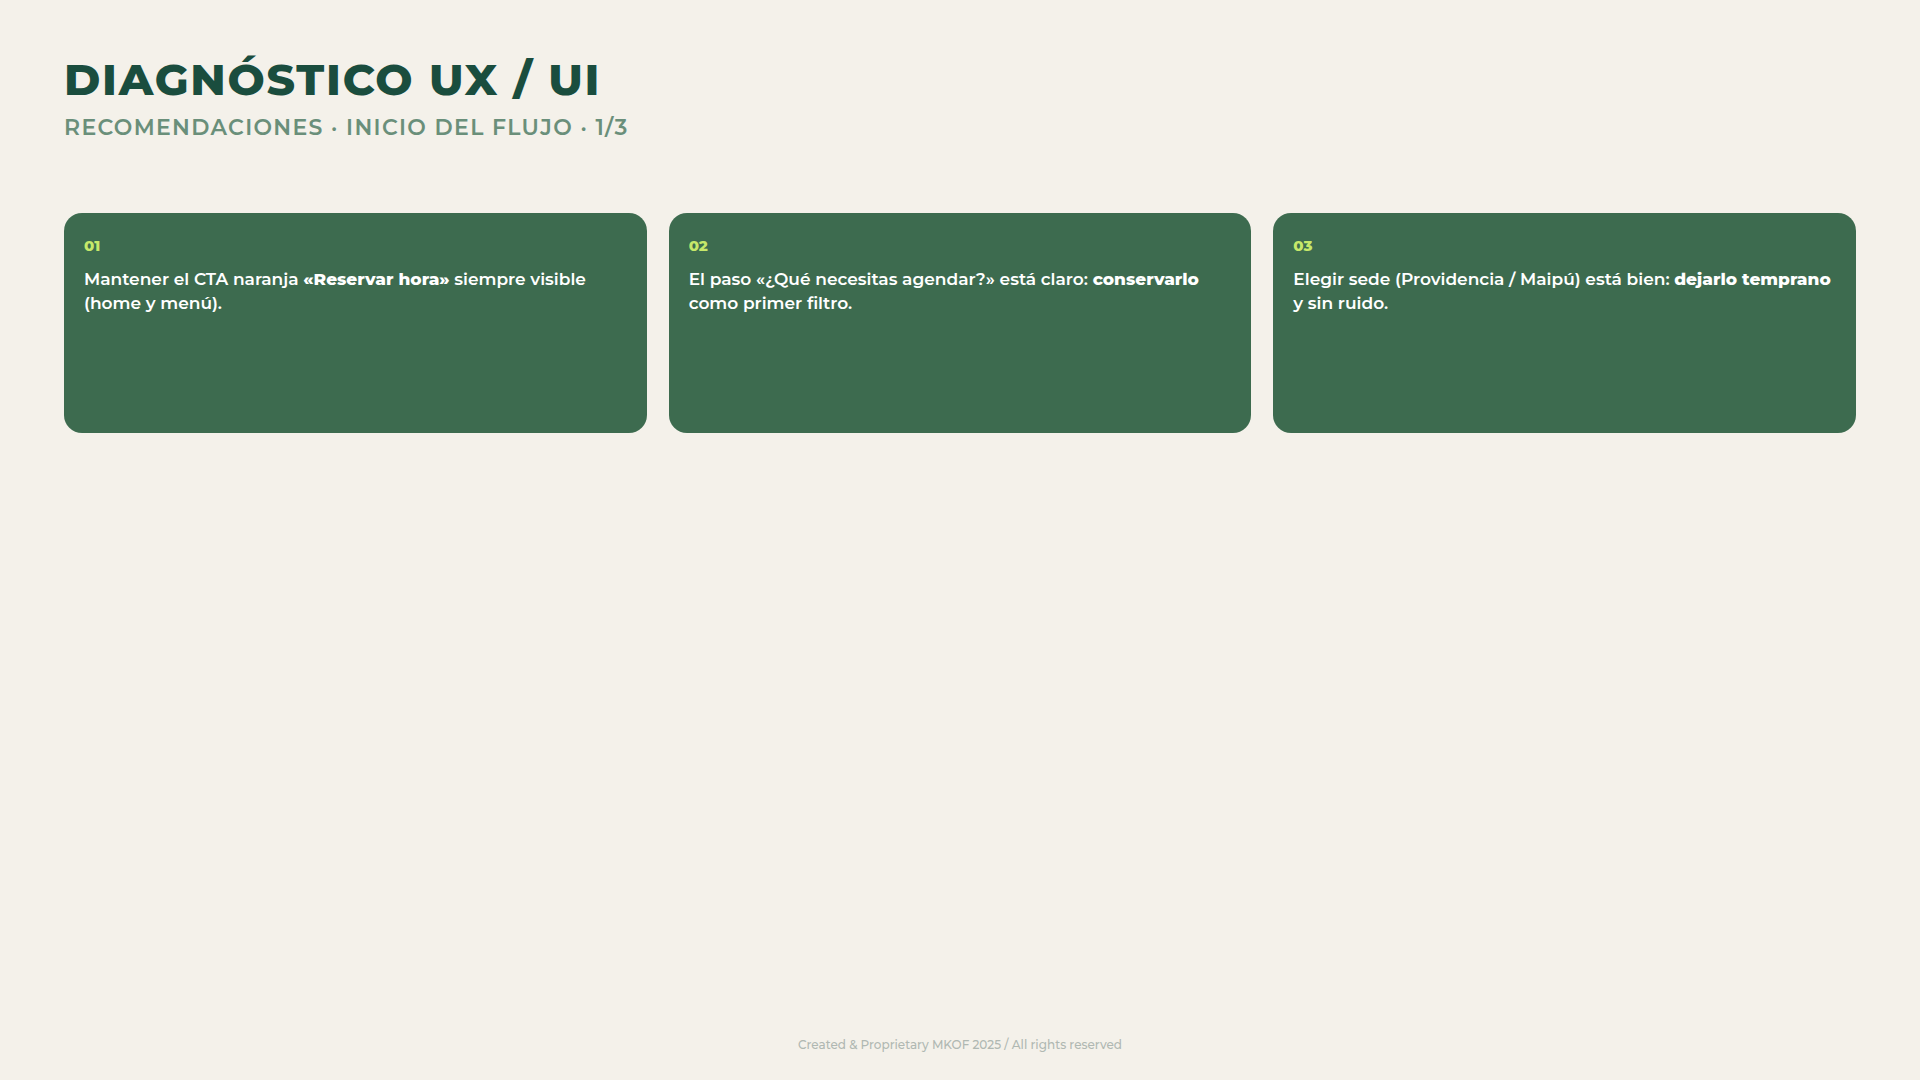
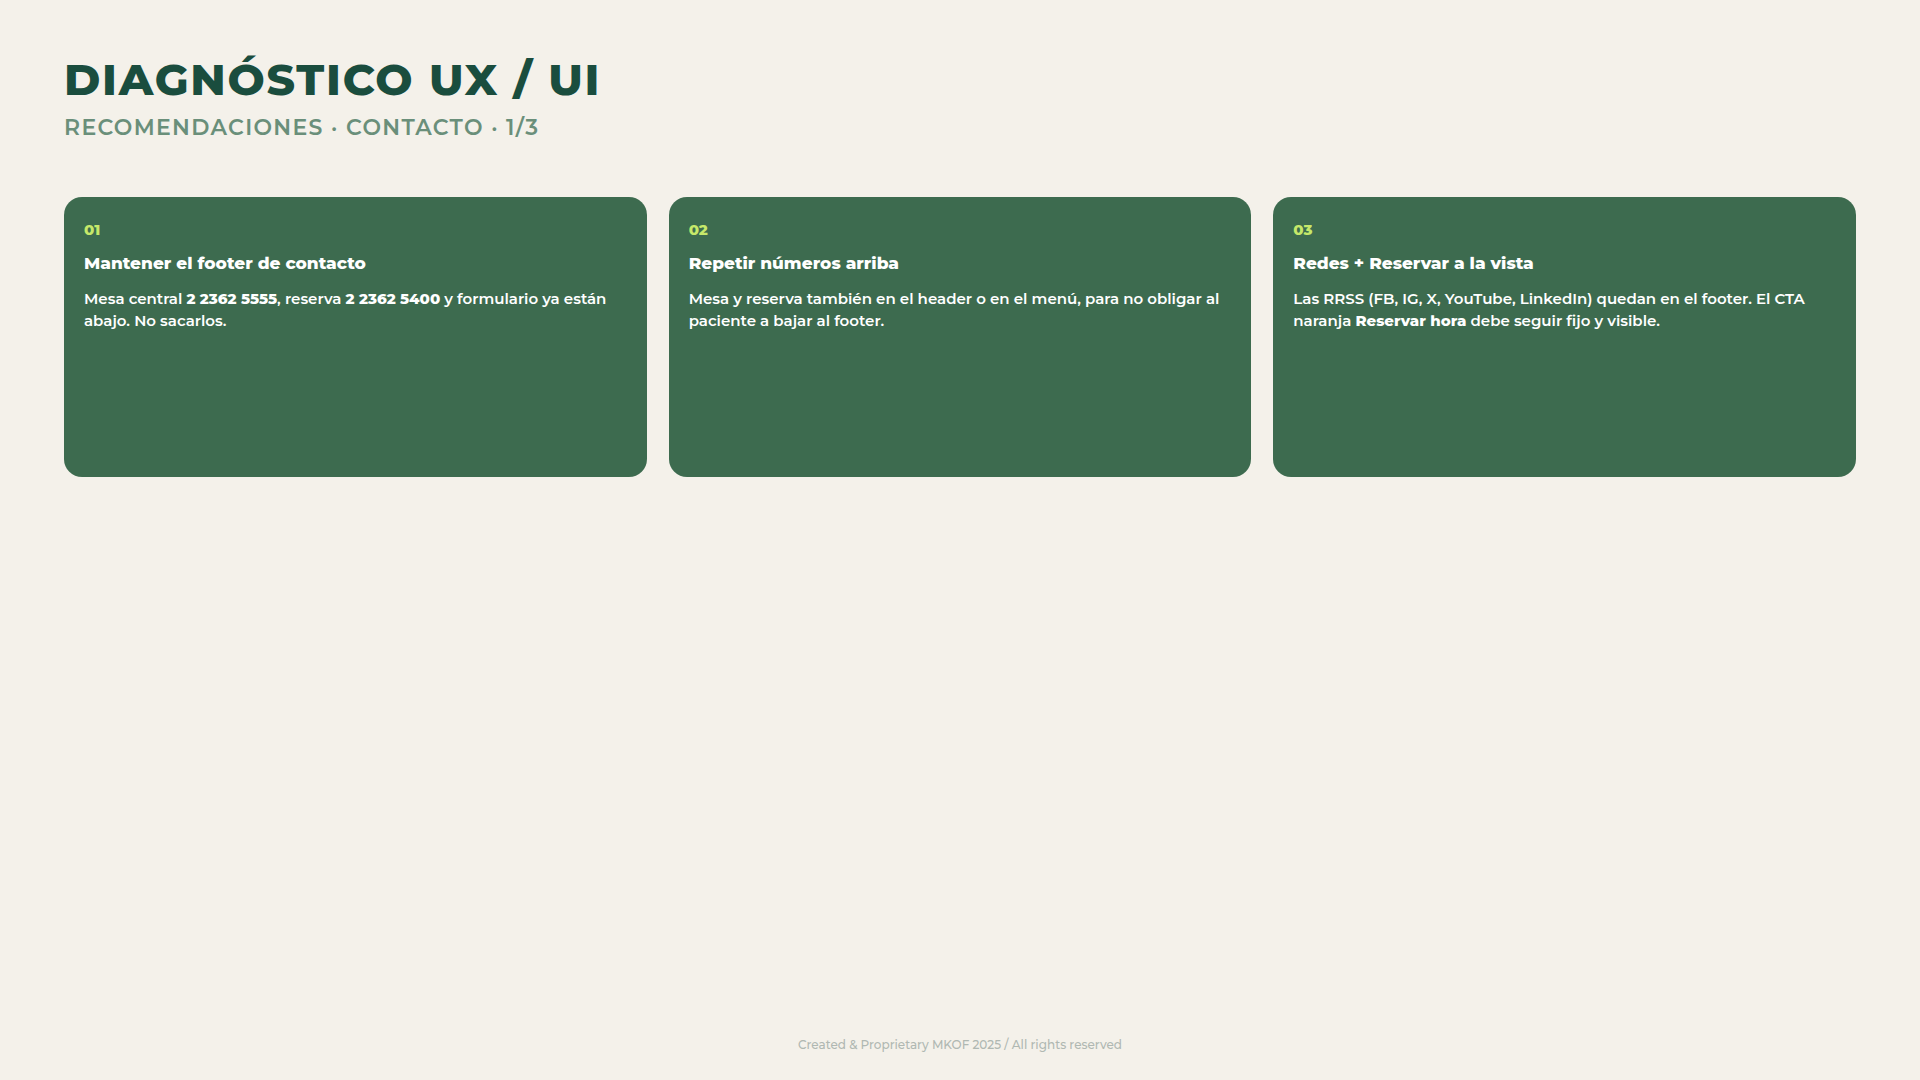
Ajustar lámina 07a Contacto a capturas del footer Indisa
Recomendaciones: mantener mesa/reserva/RRSS en footer, repetir
números arriba y conservar CTA Reservar hora.

Changed region(s): [[0.0312, 0.1833, 0.9688, 0.3056], [0.0312, 0.3972, 0.9688, 0.4583], [0.1875, 0.0917, 0.3125, 0.1222]]

diff --git a/index/clientes/mkof/prospecto/clientes/clinica-indisa/UX-UI/laminas/07a-recomendaciones-contacto.html b/index/clientes/mkof/prospecto/clientes/clinica-indisa/UX-UI/laminas/07a-recomendaciones-contacto.html
@@ -2,25 +2,34 @@
 <html lang="es">
 <head>
   <meta charset="UTF-8">
-  <title>Recomendaciones · Contacto reserva</title>
+  <title>Recomendaciones · Contacto</title>
   <link rel="stylesheet" href="plantilla-mkof.css">
 </head>
 <body class="slide">
   <h1>DIAGNÓSTICO UX / UI</h1>
-  <div class="sub">RECOMENDACIONES · INICIO DEL FLUJO · 1/3</div>
+  <div class="sub">RECOMENDACIONES · CONTACTO · 1/3</div>
 
-  <div style="display:grid;grid-template-columns:repeat(3,1fr);gap:22px;margin-top:72px">
-    <div class="rec" style="min-height:220px">
+  <div style="display:grid;grid-template-columns:repeat(3,1fr);gap:22px;margin-top:56px">
+    <div class="rec" style="min-height:280px">
       <div style="color:#c6e86a;font-size:15px;font-weight:800;margin-bottom:12px">01</div>
-      Mantener el CTA naranja <b>«Reservar hora»</b> siempre visible (home y menú).
+      <b>Mantener el footer de contacto</b>
+      <div style="margin-top:12px;font-size:15px;line-height:1.45;font-weight:600">
+        Mesa central <b>2 2362 5555</b>, reserva <b>2 2362 5400</b> y formulario ya están abajo. No sacarlos.
+      </div>
     </div>
-    <div class="rec" style="min-height:220px">
+    <div class="rec" style="min-height:280px">
       <div style="color:#c6e86a;font-size:15px;font-weight:800;margin-bottom:12px">02</div>
-      El paso «¿Qué necesitas agendar?» está claro: <b>conservarlo</b> como primer filtro.
+      <b>Repetir números arriba</b>
+      <div style="margin-top:12px;font-size:15px;line-height:1.45;font-weight:600">
+        Mesa y reserva también en el header o en el menú, para no obligar al paciente a bajar al footer.
+      </div>
     </div>
-    <div class="rec" style="min-height:220px">
+    <div class="rec" style="min-height:280px">
       <div style="color:#c6e86a;font-size:15px;font-weight:800;margin-bottom:12px">03</div>
-      Elegir sede (Providencia / Maipú) está bien: <b>dejarlo temprano</b> y sin ruido.
+      <b>Redes + Reservar a la vista</b>
+      <div style="margin-top:12px;font-size:15px;line-height:1.45;font-weight:600">
+        Las RRSS (FB, IG, X, YouTube, LinkedIn) quedan en el footer. El CTA naranja <b>Reservar hora</b> debe seguir fijo y visible.
+      </div>
     </div>
   </div>
 

diff --git a/index/clientes/mkof/prospecto/clientes/clinica-indisa/UX-UI/index.html b/index/clientes/mkof/prospecto/clientes/clinica-indisa/UX-UI/index.html
@@ -148,8 +148,8 @@
       </a>
       <a class="ux-card" href="laminas/07a-recomendaciones-contacto.html" target="_blank" rel="noopener">
         <img src="laminas/07a-recomendaciones-contacto.png" alt="" loading="lazy" />
-        <strong>07a · Inicio del flujo</strong>
-        <span>CTA · tipo · sede</span>
+        <strong>07a · Contacto</strong>
+        <span>Footer · números arriba · CTA</span>
       </a>
       <a class="ux-card" href="laminas/07b-recomendaciones-reserva.html" target="_blank" rel="noopener">
         <img src="laminas/07b-recomendaciones-reserva.png" alt="" loading="lazy" />
